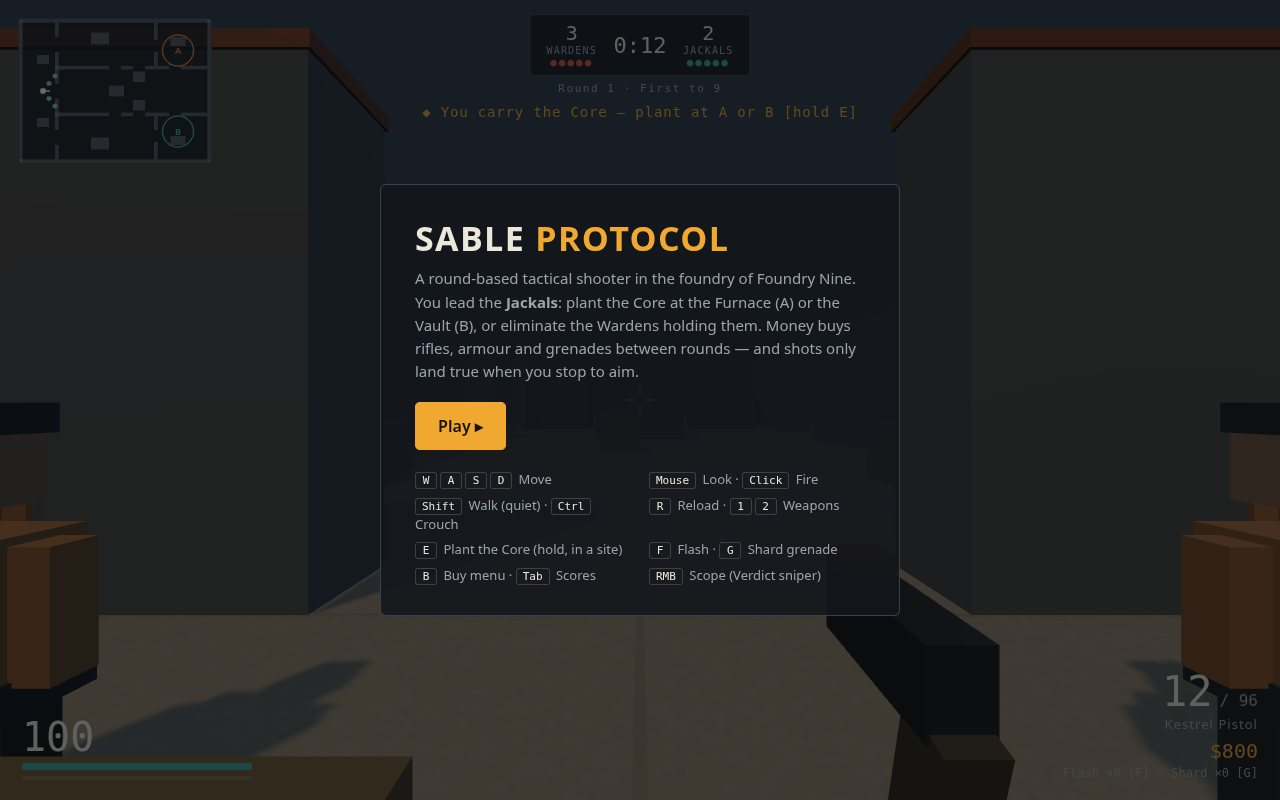
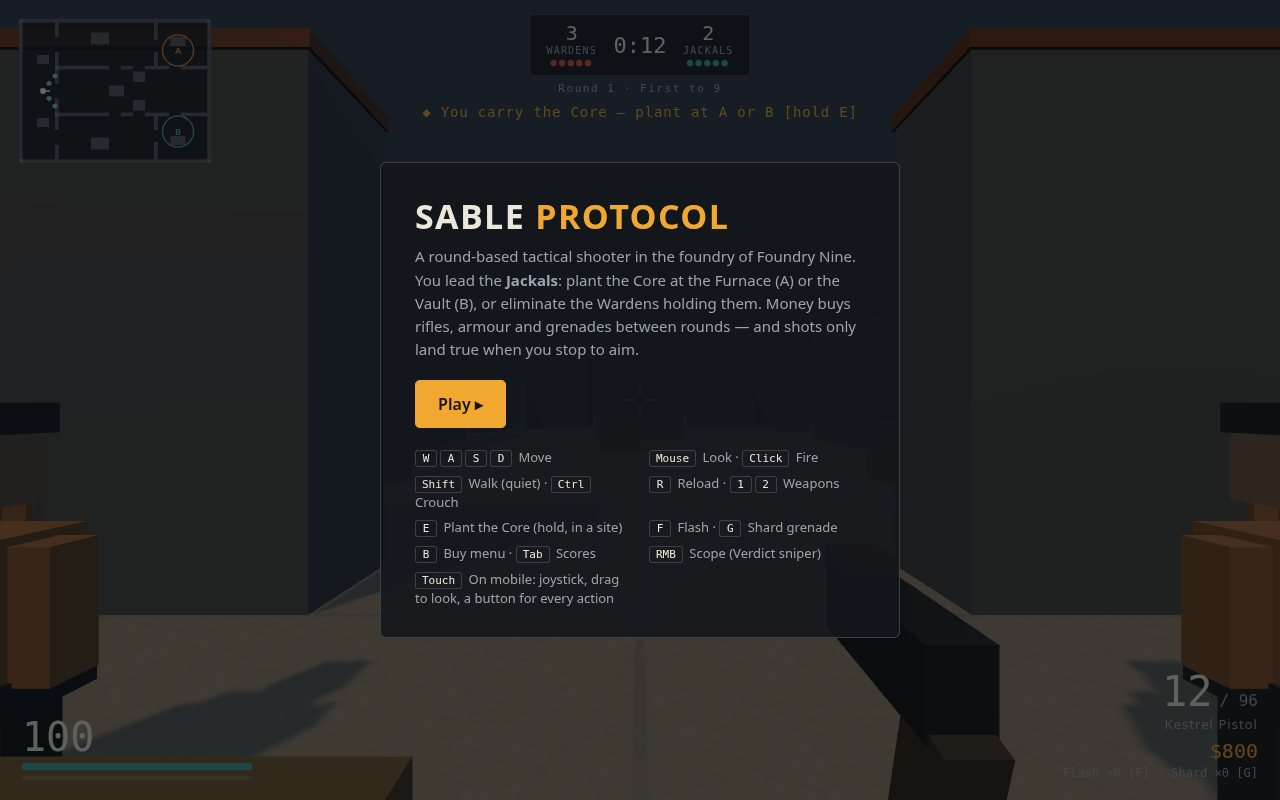
Add a complete mobile touch layer: joystick, drag look, every action on a button
On touch devices the game is fully playable without a keyboard or mouse:
a virtual joystick moves, dragging on the view looks, and FIRE, SCOPE,
JUMP and CRCH sit around the right thumb with a strip for reload, use,
both grenades, both weapon slots, walk, buy and scores. The touch layer
writes the same input state as the keyboard and pointer-lock mouse, so
the simulation is unchanged; pointer lock is skipped on touch devices
and firing no longer requires it there. HUD readouts move out from under
the thumbs on small screens.

Changed region(s): [[0.2812, 0.25, 0.6875, 0.8125]]

diff --git a/game/src/input.js b/game/src/input.js
@@ -1,7 +1,9 @@
 // SABLE PROTOCOL — input. Keyboard state, mouse look through pointer lock,
-// and one-shot action edges (fire pressed, reload pressed, number keys) that
-// the fixed-step simulation consumes exactly once. The sim never reads the
-// DOM; it reads this object.
+// one-shot action edges (fire pressed, reload pressed, number keys) that the
+// fixed-step simulation consumes exactly once, and a full touch layer for
+// mobile: a virtual joystick, drag-to-look on the view, and a button for
+// every desktop feature. Touch writes into the same fields the keyboard and
+// mouse use, so the sim never reads the DOM and never knows the difference.
 
 export const input = {
   keys: new Set(),
@@ -18,6 +20,11 @@ export const input = {
   grenadePressed: null, // 'flash' | 'shard' | null
   slotPressed: 0,       // 1..3 weapon slot edge
   locked: false,
+  // Touch state.
+  touchMode: false,
+  touchMove: { x: 0, z: 0 }, // joystick axes, -1..1, folded into moveAxes()
+  touchCrouch: false,        // CRCH toggle
+  touchWalk: false,          // WALK toggle
 };
 
 const SLOT_KEYS = { Digit1: 1, Digit2: 2, Digit3: 3 };
@@ -65,9 +72,13 @@ export function initInput(canvas, onFirstGesture) {
     input.locked = document.pointerLockElement === canvas;
     if (!input.locked) input.firing = false;
   });
+
+  initTouchControls(canvas, onFirstGesture);
 }
 
 export function lockPointer(canvas) {
+  // Touch devices have no pointer lock: the drag-look layer replaces it.
+  if (input.touchMode) return;
   if (document.pointerLockElement !== canvas) canvas.requestPointerLock();
 }
 
@@ -79,15 +90,152 @@ export function moveAxes() {
   if (k.has('KeyS') || k.has('ArrowDown')) z += 1;
   if (k.has('KeyA') || k.has('ArrowLeft')) x -= 1;
   if (k.has('KeyD') || k.has('ArrowRight')) x += 1;
+  x += input.touchMove.x;
+  z += input.touchMove.z;
+  const len = Math.hypot(x, z);
+  if (len > 1) { x /= len; z /= len; }
   return { x, z };
 }
 
 export function crouchHeld() {
-  return input.keys.has('ControlLeft') || input.keys.has('ControlRight') || input.keys.has('KeyC');
+  return input.touchCrouch || input.keys.has('ControlLeft') || input.keys.has('ControlRight') || input.keys.has('KeyC');
 }
 
 export function walkHeld() {
-  return input.keys.has('ShiftLeft') || input.keys.has('ShiftRight');
+  return input.touchWalk || input.keys.has('ShiftLeft') || input.keys.has('ShiftRight');
+}
+
+// --- Touch controls ---------------------------------------------------------
+// The DOM layer lives in index.html (#touchui) and is only shown on touch
+// devices during a match (body.touch.playing), but the handlers are wired
+// unconditionally so a hybrid device can switch mid-session. Every handler
+// writes the same input fields the keyboard and mouse use.
+function initTouchControls(canvas, onFirstGesture) {
+  const $ = (id) => document.getElementById(id);
+  const enable = () => {
+    if (!input.touchMode) {
+      input.touchMode = true;
+      document.body.classList.add('touch');
+    }
+  };
+  if (window.matchMedia && matchMedia('(pointer: coarse)').matches) enable();
+  window.addEventListener('pointerdown', (e) => { if (e.pointerType === 'touch') enable(); }, { passive: true });
+
+  // Dragging on the view looks around, at a touch-tuned sensitivity.
+  let lookId = null;
+  let lookX = 0;
+  let lookY = 0;
+  canvas.addEventListener('pointerdown', (e) => {
+    if (e.pointerType !== 'touch') return;
+    enable();
+    onFirstGesture && onFirstGesture();
+    lookId = e.pointerId;
+    lookX = e.clientX;
+    lookY = e.clientY;
+    try { canvas.setPointerCapture(e.pointerId); } catch (_) {}
+  });
+  canvas.addEventListener('pointermove', (e) => {
+    if (e.pointerId !== lookId) return;
+    input.lookDX += (e.clientX - lookX) * 2.4;
+    input.lookDY += (e.clientY - lookY) * 2.4;
+    lookX = e.clientX;
+    lookY = e.clientY;
+  });
+  const endLook = (e) => { if (e.pointerId === lookId) lookId = null; };
+  canvas.addEventListener('pointerup', endLook);
+  canvas.addEventListener('pointercancel', endLook);
+
+  // Virtual joystick: a fixed base, the knob follows the thumb within it.
+  const joy = $('joy');
+  const knob = $('joy-knob');
+  if (joy && knob) {
+    let joyId = null;
+    const R = 44;
+    const setKnob = (dx, dy) => {
+      knob.style.transform = `translate(calc(-50% + ${dx}px), calc(-50% + ${dy}px))`;
+    };
+    const steer = (e) => {
+      const r = joy.getBoundingClientRect();
+      let dx = e.clientX - (r.left + r.width / 2);
+      let dy = e.clientY - (r.top + r.height / 2);
+      const len = Math.hypot(dx, dy);
+      if (len > R) { dx *= R / len; dy *= R / len; }
+      setKnob(dx, dy);
+      input.touchMove.x = dx / R;
+      input.touchMove.z = dy / R;
+    };
+    joy.addEventListener('pointerdown', (e) => {
+      enable();
+      joyId = e.pointerId;
+      try { joy.setPointerCapture(e.pointerId); } catch (_) {}
+      steer(e);
+      e.preventDefault();
+    });
+    joy.addEventListener('pointermove', (e) => { if (e.pointerId === joyId) steer(e); });
+    const endJoy = (e) => {
+      if (e.pointerId !== joyId) return;
+      joyId = null;
+      input.touchMove.x = 0;
+      input.touchMove.z = 0;
+      setKnob(0, 0);
+    };
+    joy.addEventListener('pointerup', endJoy);
+    joy.addEventListener('pointercancel', endJoy);
+  }
+
+  // Buttons: hold = a level while pressed, tap = a one-shot edge,
+  // toggle = flips a held state and lights the button.
+  const hold = (id, down, up) => {
+    const el = $(id);
+    if (!el) return;
+    el.addEventListener('pointerdown', (e) => {
+      enable();
+      try { el.setPointerCapture(e.pointerId); } catch (_) {}
+      down();
+      e.preventDefault();
+    });
+    const end = () => { if (up) up(); };
+    el.addEventListener('pointerup', end);
+    el.addEventListener('pointercancel', end);
+  };
+  const tap = (id, fn) => hold(id, fn, null);
+  const toggle = (id, fn) => {
+    const el = $(id);
+    if (!el) return;
+    el.addEventListener('pointerdown', (e) => {
+      enable();
+      fn(el.classList.toggle('on'));
+      e.preventDefault();
+    });
+  };
+
+  hold('t-fire',
+    () => { input.firing = true; input.firePressed = true; },
+    () => { input.firing = false; });
+  hold('t-use',
+    () => { input.useHeld = true; input.usePressed = true; },
+    () => { input.useHeld = false; });
+  hold('t-score',
+    () => input.keys.add('Tab'),
+    () => input.keys.delete('Tab'));
+  tap('t-jump', () => { input.jumpPressed = true; });
+  tap('t-reload', () => { input.reloadPressed = true; });
+  tap('t-flash', () => { input.grenadePressed = 'flash'; });
+  tap('t-shard', () => { input.grenadePressed = 'shard'; });
+  tap('t-slot1', () => { input.slotPressed = 1; });
+  tap('t-slot2', () => { input.slotPressed = 2; });
+  tap('t-buy', () => {
+    // The buy toggle lives on a window keydown listener in main.js; a real
+    // dispatched key event keeps one code path for keyboard and touch.
+    window.dispatchEvent(new KeyboardEvent('keydown', { code: 'KeyB' }));
+    window.dispatchEvent(new KeyboardEvent('keyup', { code: 'KeyB' }));
+  });
+  toggle('t-scope', (on) => { if (on) input.keys.add('MouseRight'); else input.keys.delete('MouseRight'); });
+  toggle('t-crouch', (on) => { input.touchCrouch = on; });
+  toggle('t-walk', (on) => { input.touchWalk = on; });
+
+  // Keep the page from scrolling or zooming under the player's thumbs.
+  document.addEventListener('touchmove', (e) => { if (input.touchMode) e.preventDefault(); }, { passive: false });
 }
 
 // Called at the end of every simulation step: edges are one-shot, axes and

diff --git a/game/index.html b/game/index.html
@@ -126,6 +126,60 @@
   #scoreboard tr.us td { color: #a8e0da; }
   #scoreboard tr.them td { color: #f0c9a8; }
   #scoreboard tr.dead td { opacity: .45; }
+
+  /* --- Touch controls (mobile) -------------------------------------------
+     Shown only on touch devices while a match is running (body.touch.playing,
+     both classes set from input.js / main.js). Every desktop feature gets a
+     thumb control: joystick move, drag look, fire, scope, jump, crouch,
+     walk, reload, use/plant, both grenades, both weapon slots, buy, scores. */
+  html, body { touch-action: none; overscroll-behavior: none; }
+  #buymenu, #scoreboard, .overlay { z-index: 40; }
+  #touchui { display: none; }
+  body.touch.playing #touchui { display: block; }
+  #touchui .tbtn {
+    position: fixed; z-index: 30; border-radius: 50%;
+    border: 1px solid rgba(255,255,255,.35); background: rgba(16,20,24,.5);
+    color: #e8e4da; font-family: var(--font-readout); font-size: 12px; letter-spacing: .05em;
+    display: grid; place-items: center; padding: 0; cursor: pointer;
+    -webkit-tap-highlight-color: transparent; touch-action: none; user-select: none; -webkit-user-select: none;
+  }
+  #touchui .tbtn.on { background: rgba(224,150,58,.65); border-color: var(--amber); color: #fff; }
+  #touchui .tbtn:active { background: rgba(224,150,58,.5); }
+  #t-fire  { right: 20px; bottom: 148px; width: 88px; height: 88px; font-size: 15px; border-color: rgba(255,120,90,.7); background: rgba(120,40,25,.5); }
+  #t-scope { right: 30px; bottom: 248px; width: 60px; height: 60px; }
+  #t-jump  { right: 122px; bottom: 108px; width: 62px; height: 62px; }
+  #t-crouch{ right: 124px; bottom: 182px; width: 62px; height: 62px; }
+  #joy {
+    position: fixed; z-index: 30; left: 18px; bottom: 62px; width: 124px; height: 124px;
+    border-radius: 50%; border: 1px solid rgba(255,255,255,.3); background: rgba(16,20,24,.4);
+    touch-action: none;
+  }
+  #joy-knob {
+    position: absolute; left: 50%; top: 50%; width: 54px; height: 54px; border-radius: 50%;
+    background: rgba(232,228,218,.35); border: 1px solid rgba(255,255,255,.45);
+    transform: translate(-50%, -50%);
+  }
+  #t-strip {
+    position: fixed; z-index: 30; left: 50%; bottom: 10px; transform: translateX(-50%);
+    display: flex; flex-wrap: wrap; justify-content: center; gap: 6px; max-width: 54vw;
+  }
+  #t-strip .tbtn { position: static; width: 46px; height: 46px; font-size: 10px; }
+  body.touch.playing #vitals { bottom: 200px; }
+  body.touch.playing #armory { top: 8px; bottom: auto; }
+  body.touch.playing #killfeed { top: 108px; }
+  @media (max-height: 500px) {
+    body.touch.playing #vitals { bottom: 212px; }
+    #t-fire  { bottom: 128px; width: 78px; height: 78px; }
+    #t-scope { bottom: 216px; }
+    #t-crouch{ bottom: 168px; }
+    #t-jump  { bottom: 96px; }
+  }
+  @media (max-width: 700px) {
+    #minimap { transform: scale(.7); transform-origin: top left; }
+    #topbar { transform: scale(.82); transform-origin: top center; }
+    .panel { padding: 20px 18px; }
+    .keys { grid-template-columns: 1fr; }
+  }
 </style>
 </head>
 <body>
@@ -210,6 +264,7 @@
       <li><span><kbd>F</kbd></span> Flash · <kbd>G</kbd> Shard grenade</li>
       <li><span><kbd>B</kbd></span> Buy menu · <kbd>Tab</kbd> Scores</li>
       <li><span><kbd>RMB</kbd></span> Scope (Verdict sniper)</li>
+      <li><span><kbd>Touch</kbd></span> On mobile: joystick, drag to look, a button for every action</li>
     </ul>
   </section>
 </div>
@@ -220,6 +275,25 @@
     <p id="end-sub"></p>
     <button id="again" class="cta" type="button">Play again ▸</button>
   </section>
+</div>
+
+<div id="touchui" aria-hidden="true">
+  <div id="joy"><div id="joy-knob"></div></div>
+  <button class="tbtn" id="t-fire" type="button">FIRE</button>
+  <button class="tbtn" id="t-scope" type="button">SCOPE</button>
+  <button class="tbtn" id="t-jump" type="button">JUMP</button>
+  <button class="tbtn" id="t-crouch" type="button">CRCH</button>
+  <div id="t-strip">
+    <button class="tbtn" id="t-reload" type="button">RLD</button>
+    <button class="tbtn" id="t-use" type="button">USE</button>
+    <button class="tbtn" id="t-flash" type="button">FLS</button>
+    <button class="tbtn" id="t-shard" type="button">SHD</button>
+    <button class="tbtn" id="t-slot1" type="button">GUN1</button>
+    <button class="tbtn" id="t-slot2" type="button">GUN2</button>
+    <button class="tbtn" id="t-walk" type="button">WALK</button>
+    <button class="tbtn" id="t-buy" type="button">BUY</button>
+    <button class="tbtn" id="t-score" type="button">SCR</button>
+  </div>
 </div>
 
 <script type="importmap">

diff --git a/game/src/main.js b/game/src/main.js
@@ -465,7 +465,7 @@ function step(dt) {
       if (phase === 'live') {
         const scopedKey = player.loadout.current === 'verdict';
         player.loadout.scoped = scopedKey && input.keys.has('MouseRight');
-        stepWeapon(game, player, dt, input.firing && input.locked);
+        stepWeapon(game, player, dt, input.firing && (input.locked || input.touchMode));
       }
     }
     // Bots hold still and shop during the buy phase; they play in live.
@@ -681,7 +681,7 @@ renderer.domElement.addEventListener('mousedown', () => {
   }
 });
 window.addEventListener('keydown', (e) => {
-  if (game.phase === 'buy' && input.locked) {
+  if (game.phase === 'buy' && (input.locked || input.touchMode)) {
     const map = { Digit1: 'marauder', Digit2: 'longbow', Digit3: 'verdict', Digit4: 'armor', Digit5: 'flash', Digit6: 'shard' };
     if (map[e.code]) game.onBuy(map[e.code]);
   }
@@ -818,6 +818,8 @@ function frame(now) {
   poseCamera(frameDt);
   game.hud.update(game, now);
   game.hud.showScoreboard(input.keys.has('Tab'));
+  // The touch layer shows only while a match is running (see index.html).
+  document.body.classList.toggle('playing', game.phase !== 'menu' && game.phase !== 'matchEnd');
   // Live spread estimate for the crosshair.
   const def = currentDef(player.loadout);
   const moveFactor = Math.min(1, Math.hypot(player.vel.x, player.vel.z) / BODY.walkSpeed);

diff --git a/README.md b/README.md
@@ -16,6 +16,13 @@ node serve.ts            # Node 22, standard library only
 Click **Play**, gear up in the buy phase, then **Deploy**. First team to 9
 rounds wins the match.
 
+On a phone or tablet the game is fully touch-playable: a virtual joystick
+moves, dragging on the view looks, and every action has its own button —
+FIRE, SCOPE, JUMP and CRCH around the right thumb, plus a strip with
+reload, use/plant, both grenades, both weapon slots, walk, buy and scores.
+The touch layer writes the same input state as the keyboard and mouse, so
+the simulation cannot tell the difference.
+
 | Key | Action |
 | --- | --- |
 | WASD / mouse | Move / look |
@@ -47,6 +54,8 @@ sustained fire, so counter-strafing and tapping beat spraying.
     spheres, recoil bloom, grenades that arc, bounce, blind and fragment.
   - `hud.js` — health, ammo, money, clock, kill feed, buy menu, scoreboard
     and a live minimap.
+  - `input.js` — keyboard, pointer-lock mouse and the mobile touch layer
+    (joystick, drag look, full button set) behind one state object.
   - `audio.js` — every sound synthesized in WebAudio; there are no audio
     files.
   - `main.js` — the match: a fixed-step (120 Hz) simulation kept apart from
